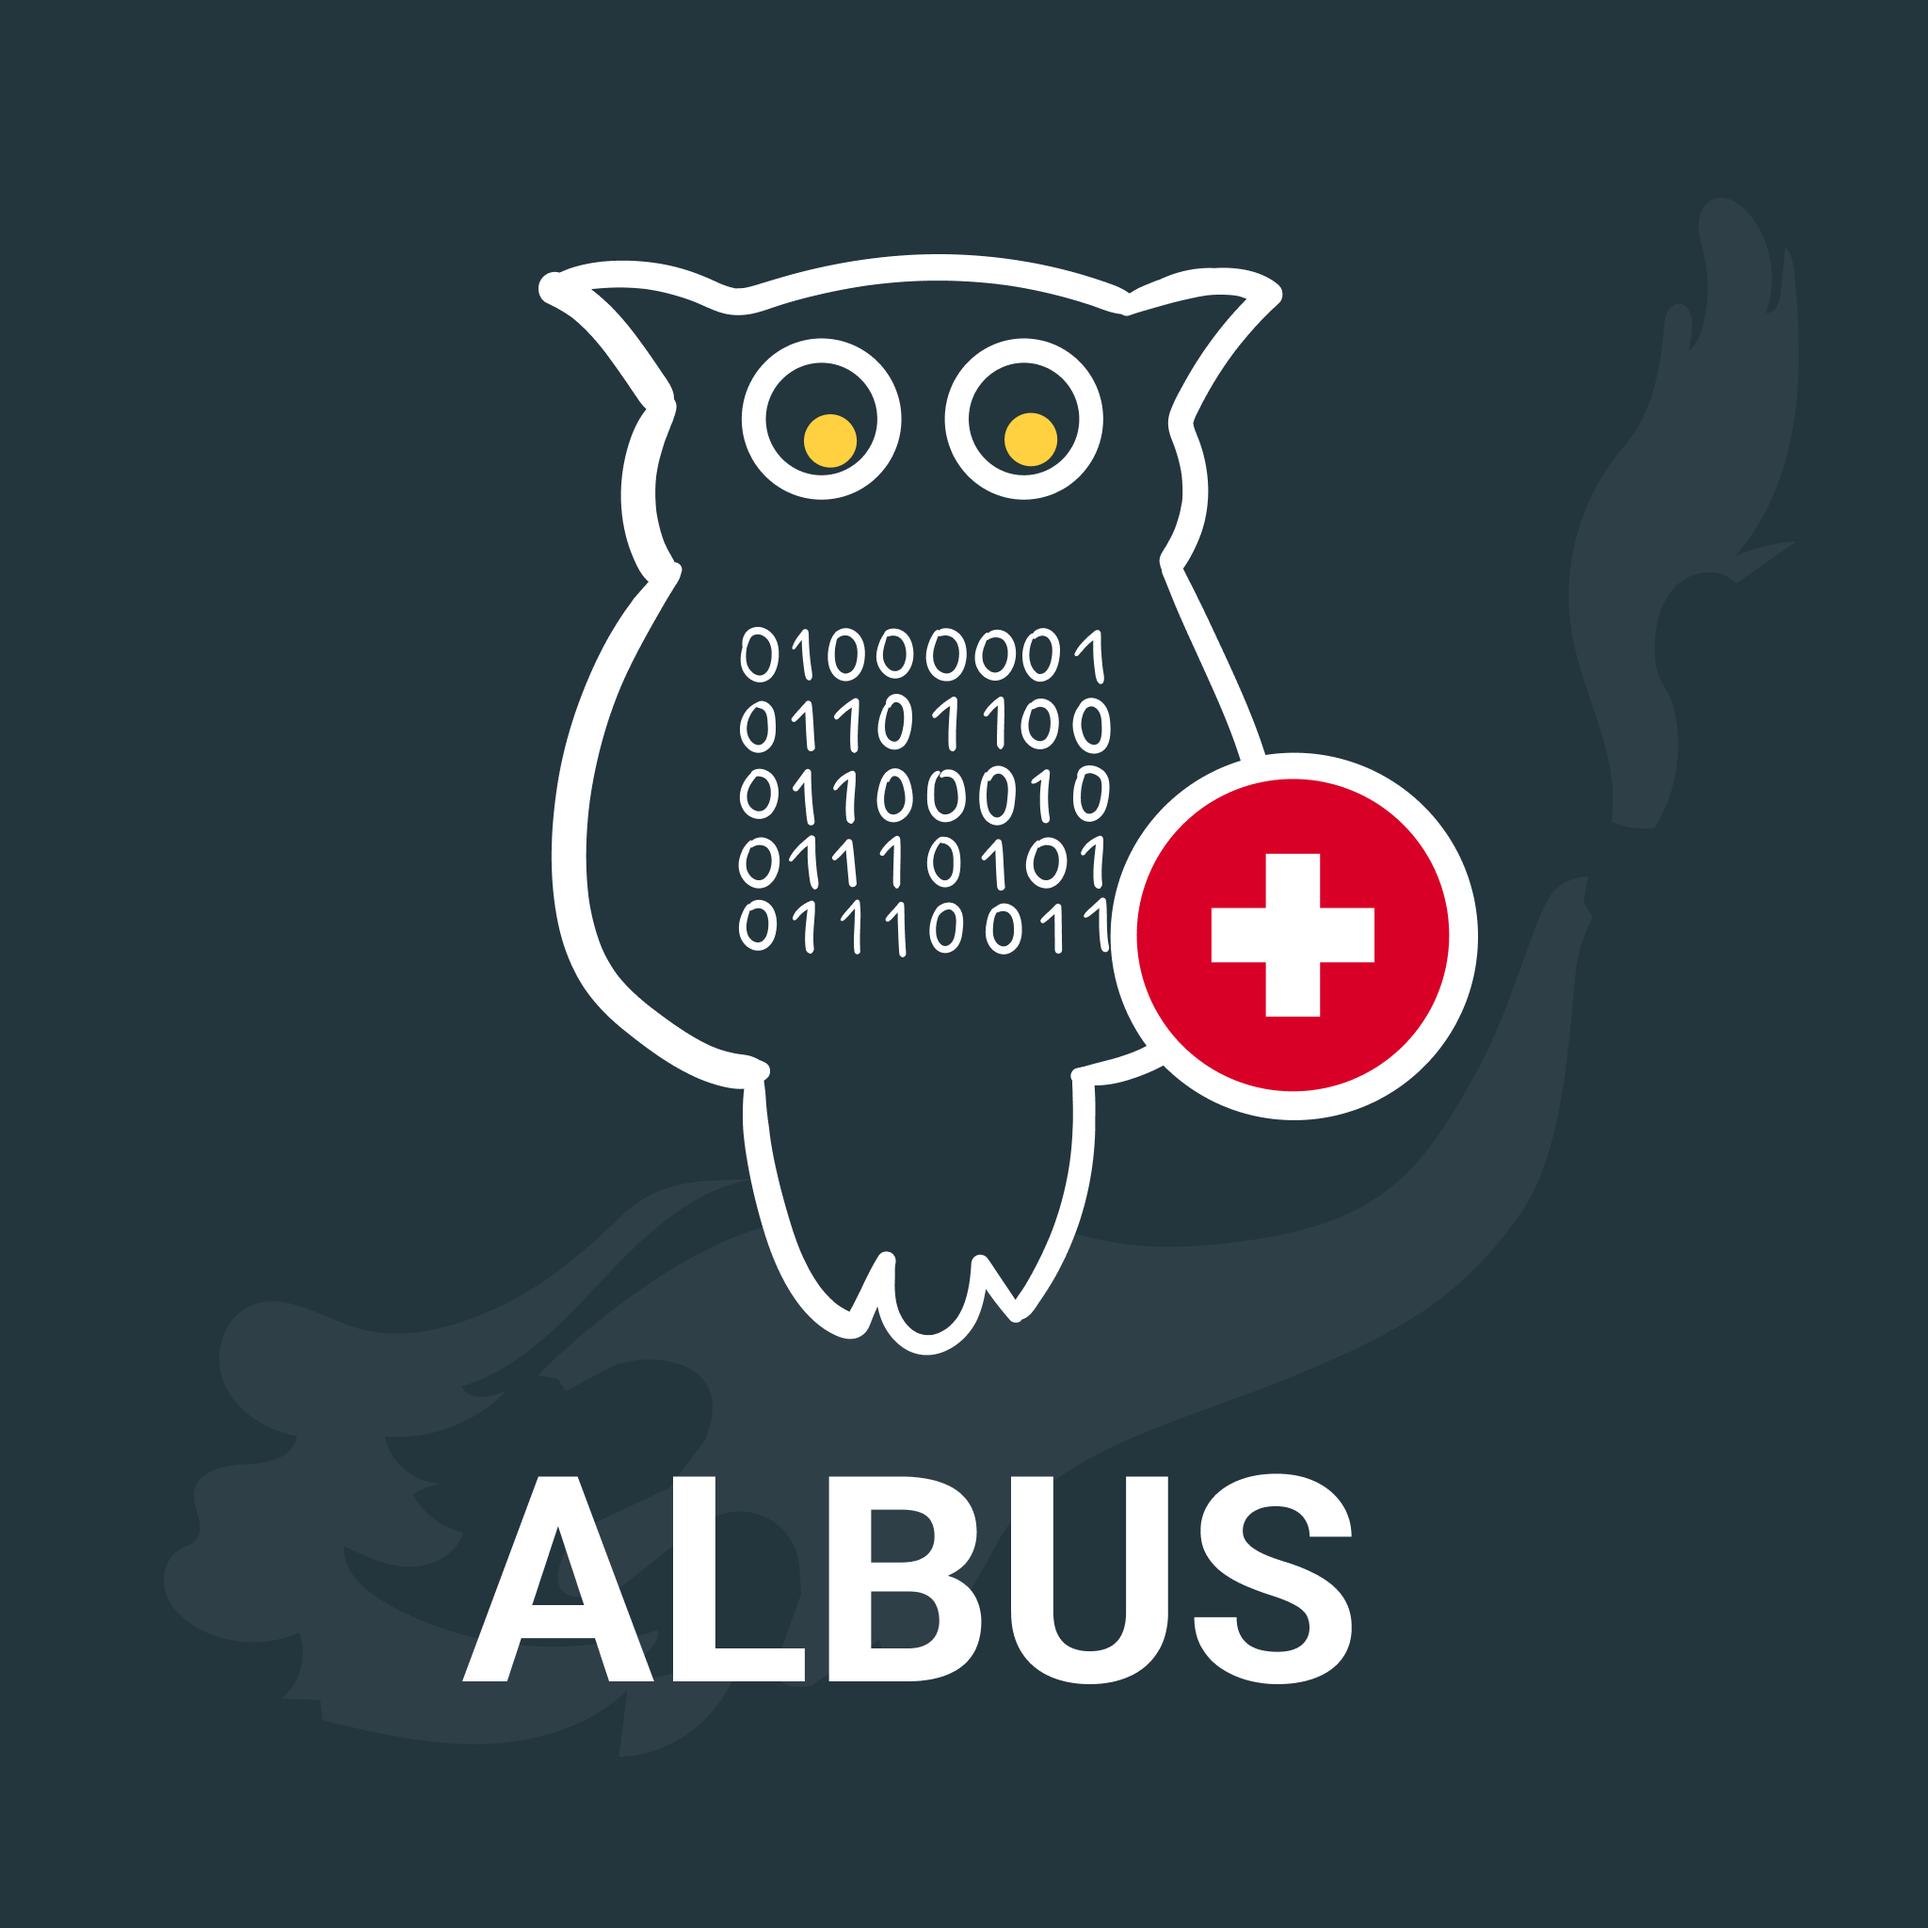
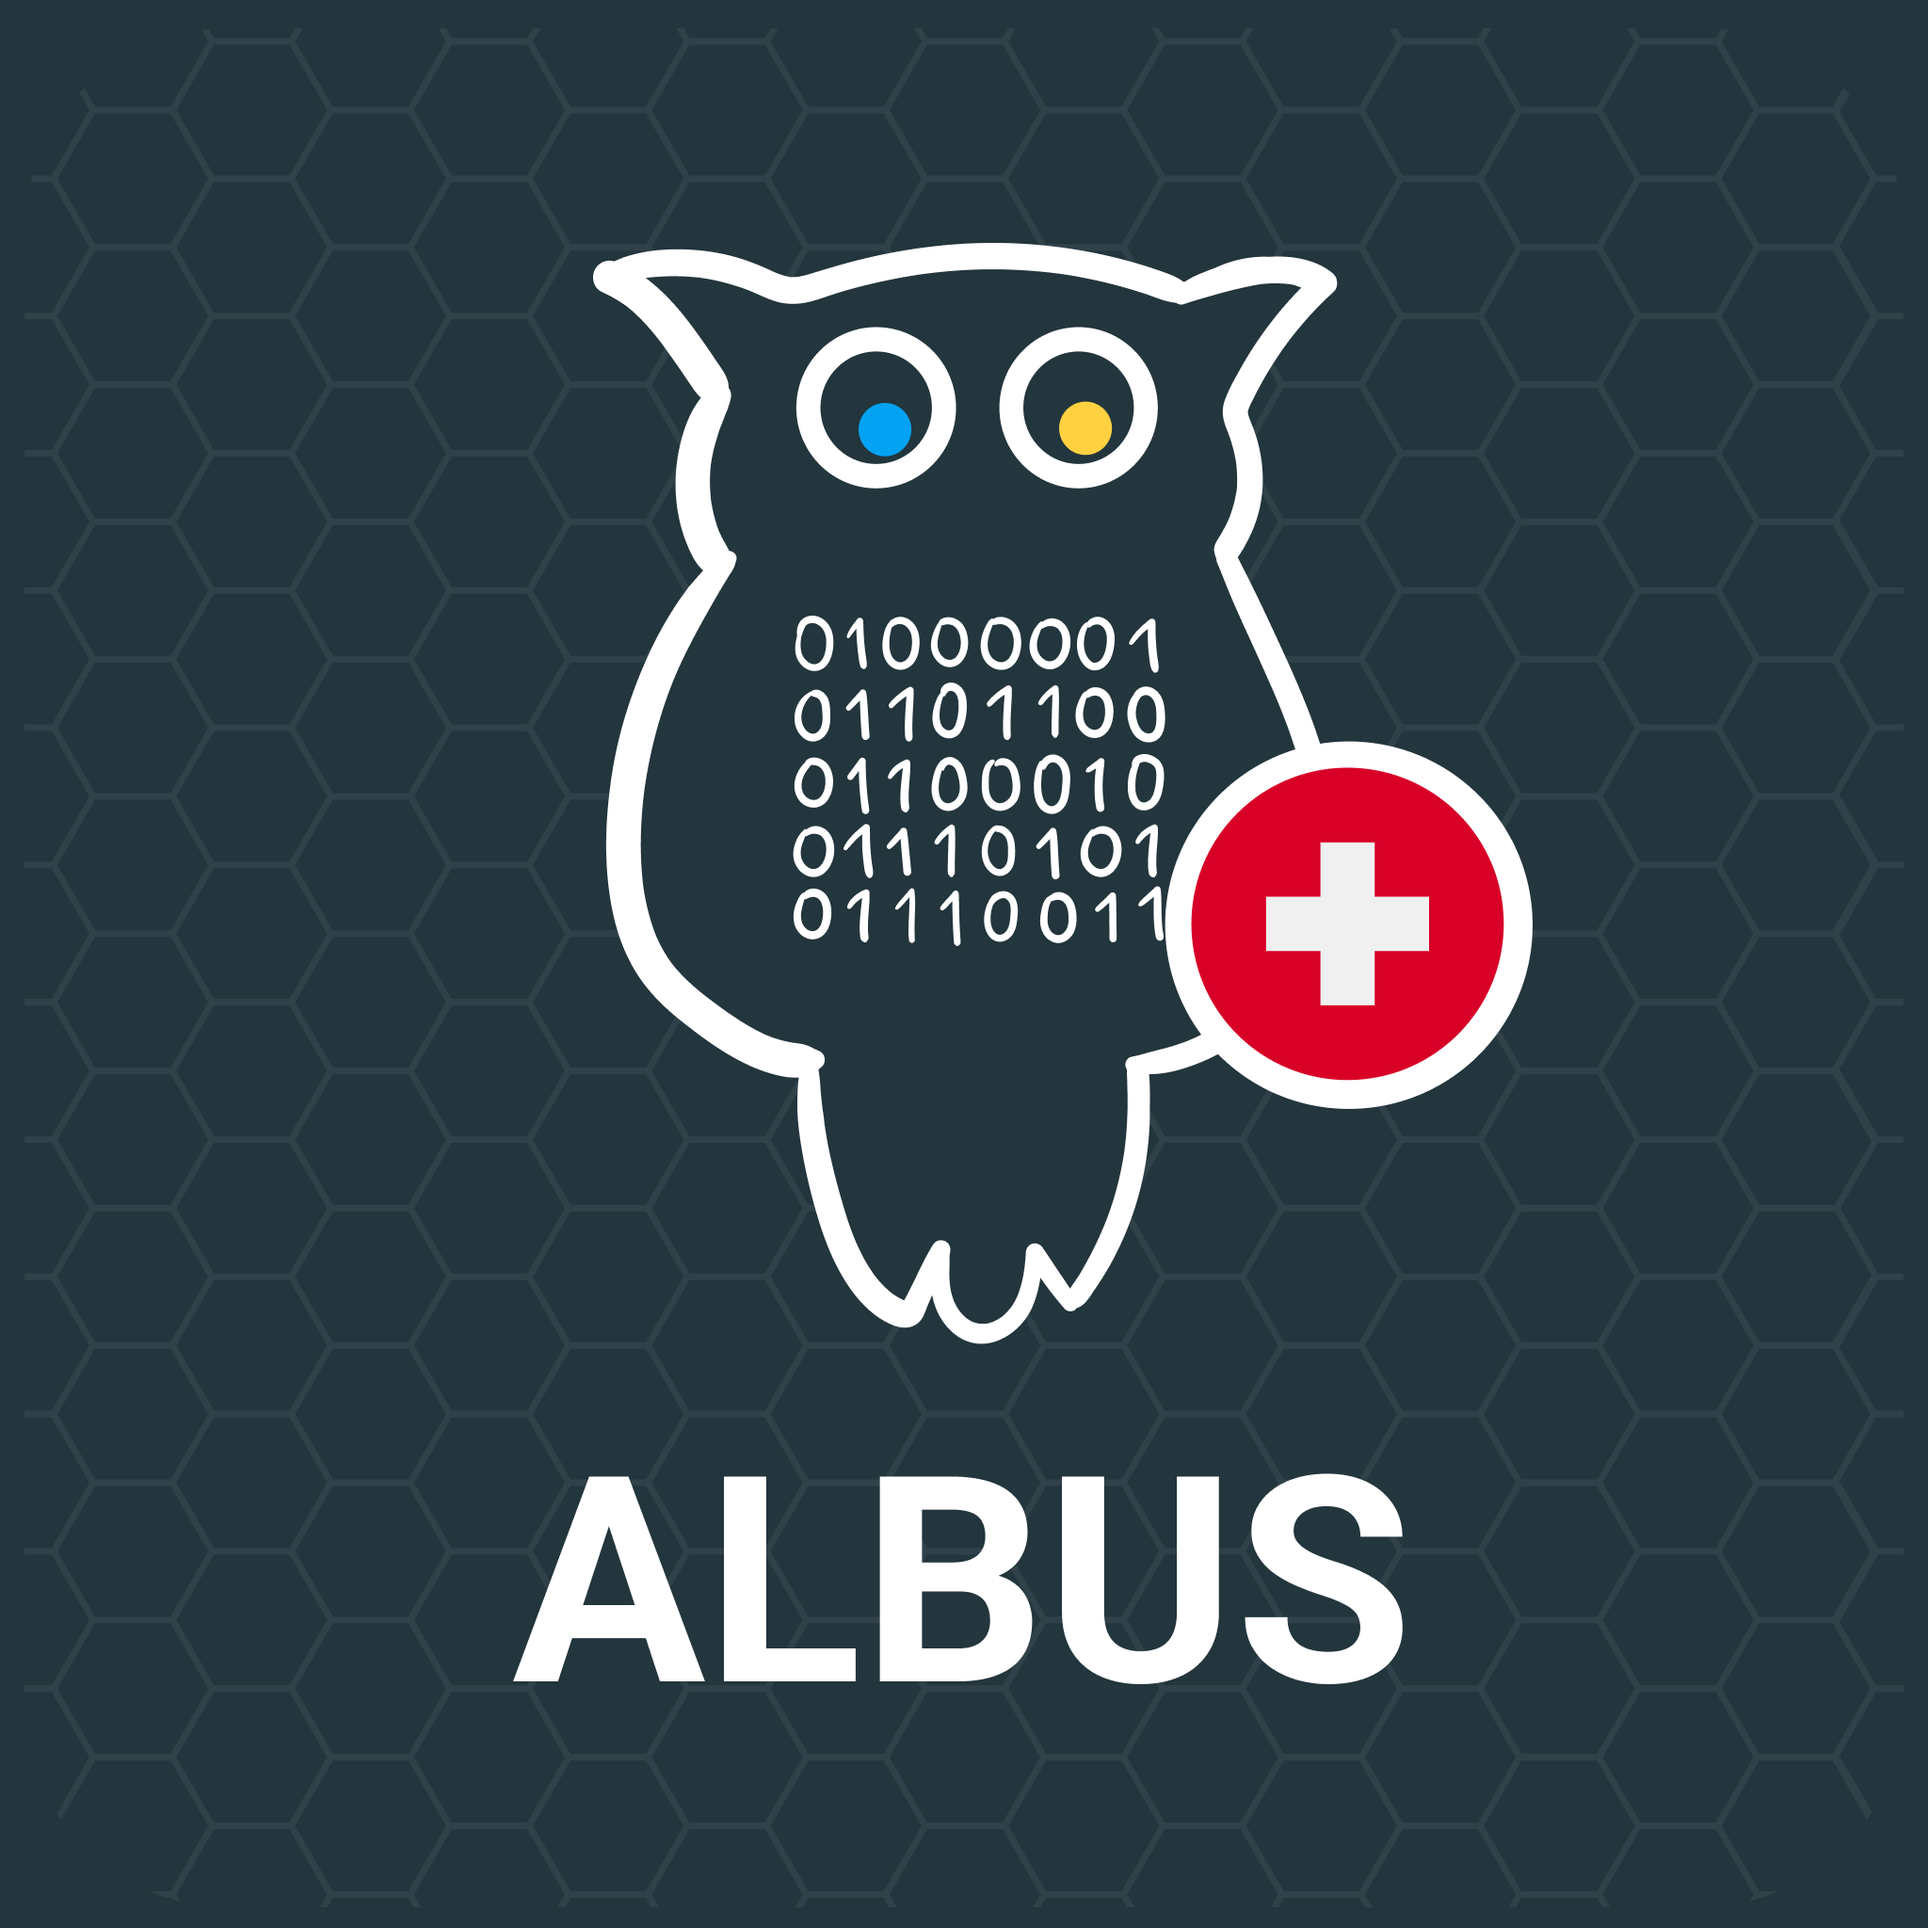
chore(cli): new vc nft image

Changed region(s): [[0.2812, 0.125, 0.8125, 0.7188], [0.2188, 0.75, 0.75, 0.875]]

diff --git a/packages/albus-cli/src/config.ts b/packages/albus-cli/src/config.ts
@@ -32,7 +32,7 @@ export default {
   nftSymbol: 'ALBUS',
   nftCreators: [],
   // logoUrl: 'https://arweave.net/hcbme7qK8G-aos2akxPub-nm7XGNaZ0Tr-sh7syqWxk',
-  logoUrl: 'https://arweave.net/9vyw4mykUuxC9K0exvp4_pnG1xJdMbMGE4fFk6cuwzc',
+  logoUrl: 'https://arweave.net/-RX1vgX0qdH-IdhovS0KuJCtqC1Eh3uM9UfSZBBZVVE',
   issuerDid: 'did:web:albus.finance',
   issuerSecretKey: [
     // 5tWk9EZcMpdKzxVGr4ZakZDHdWiqVJkLQ1b3v2vraDeH
